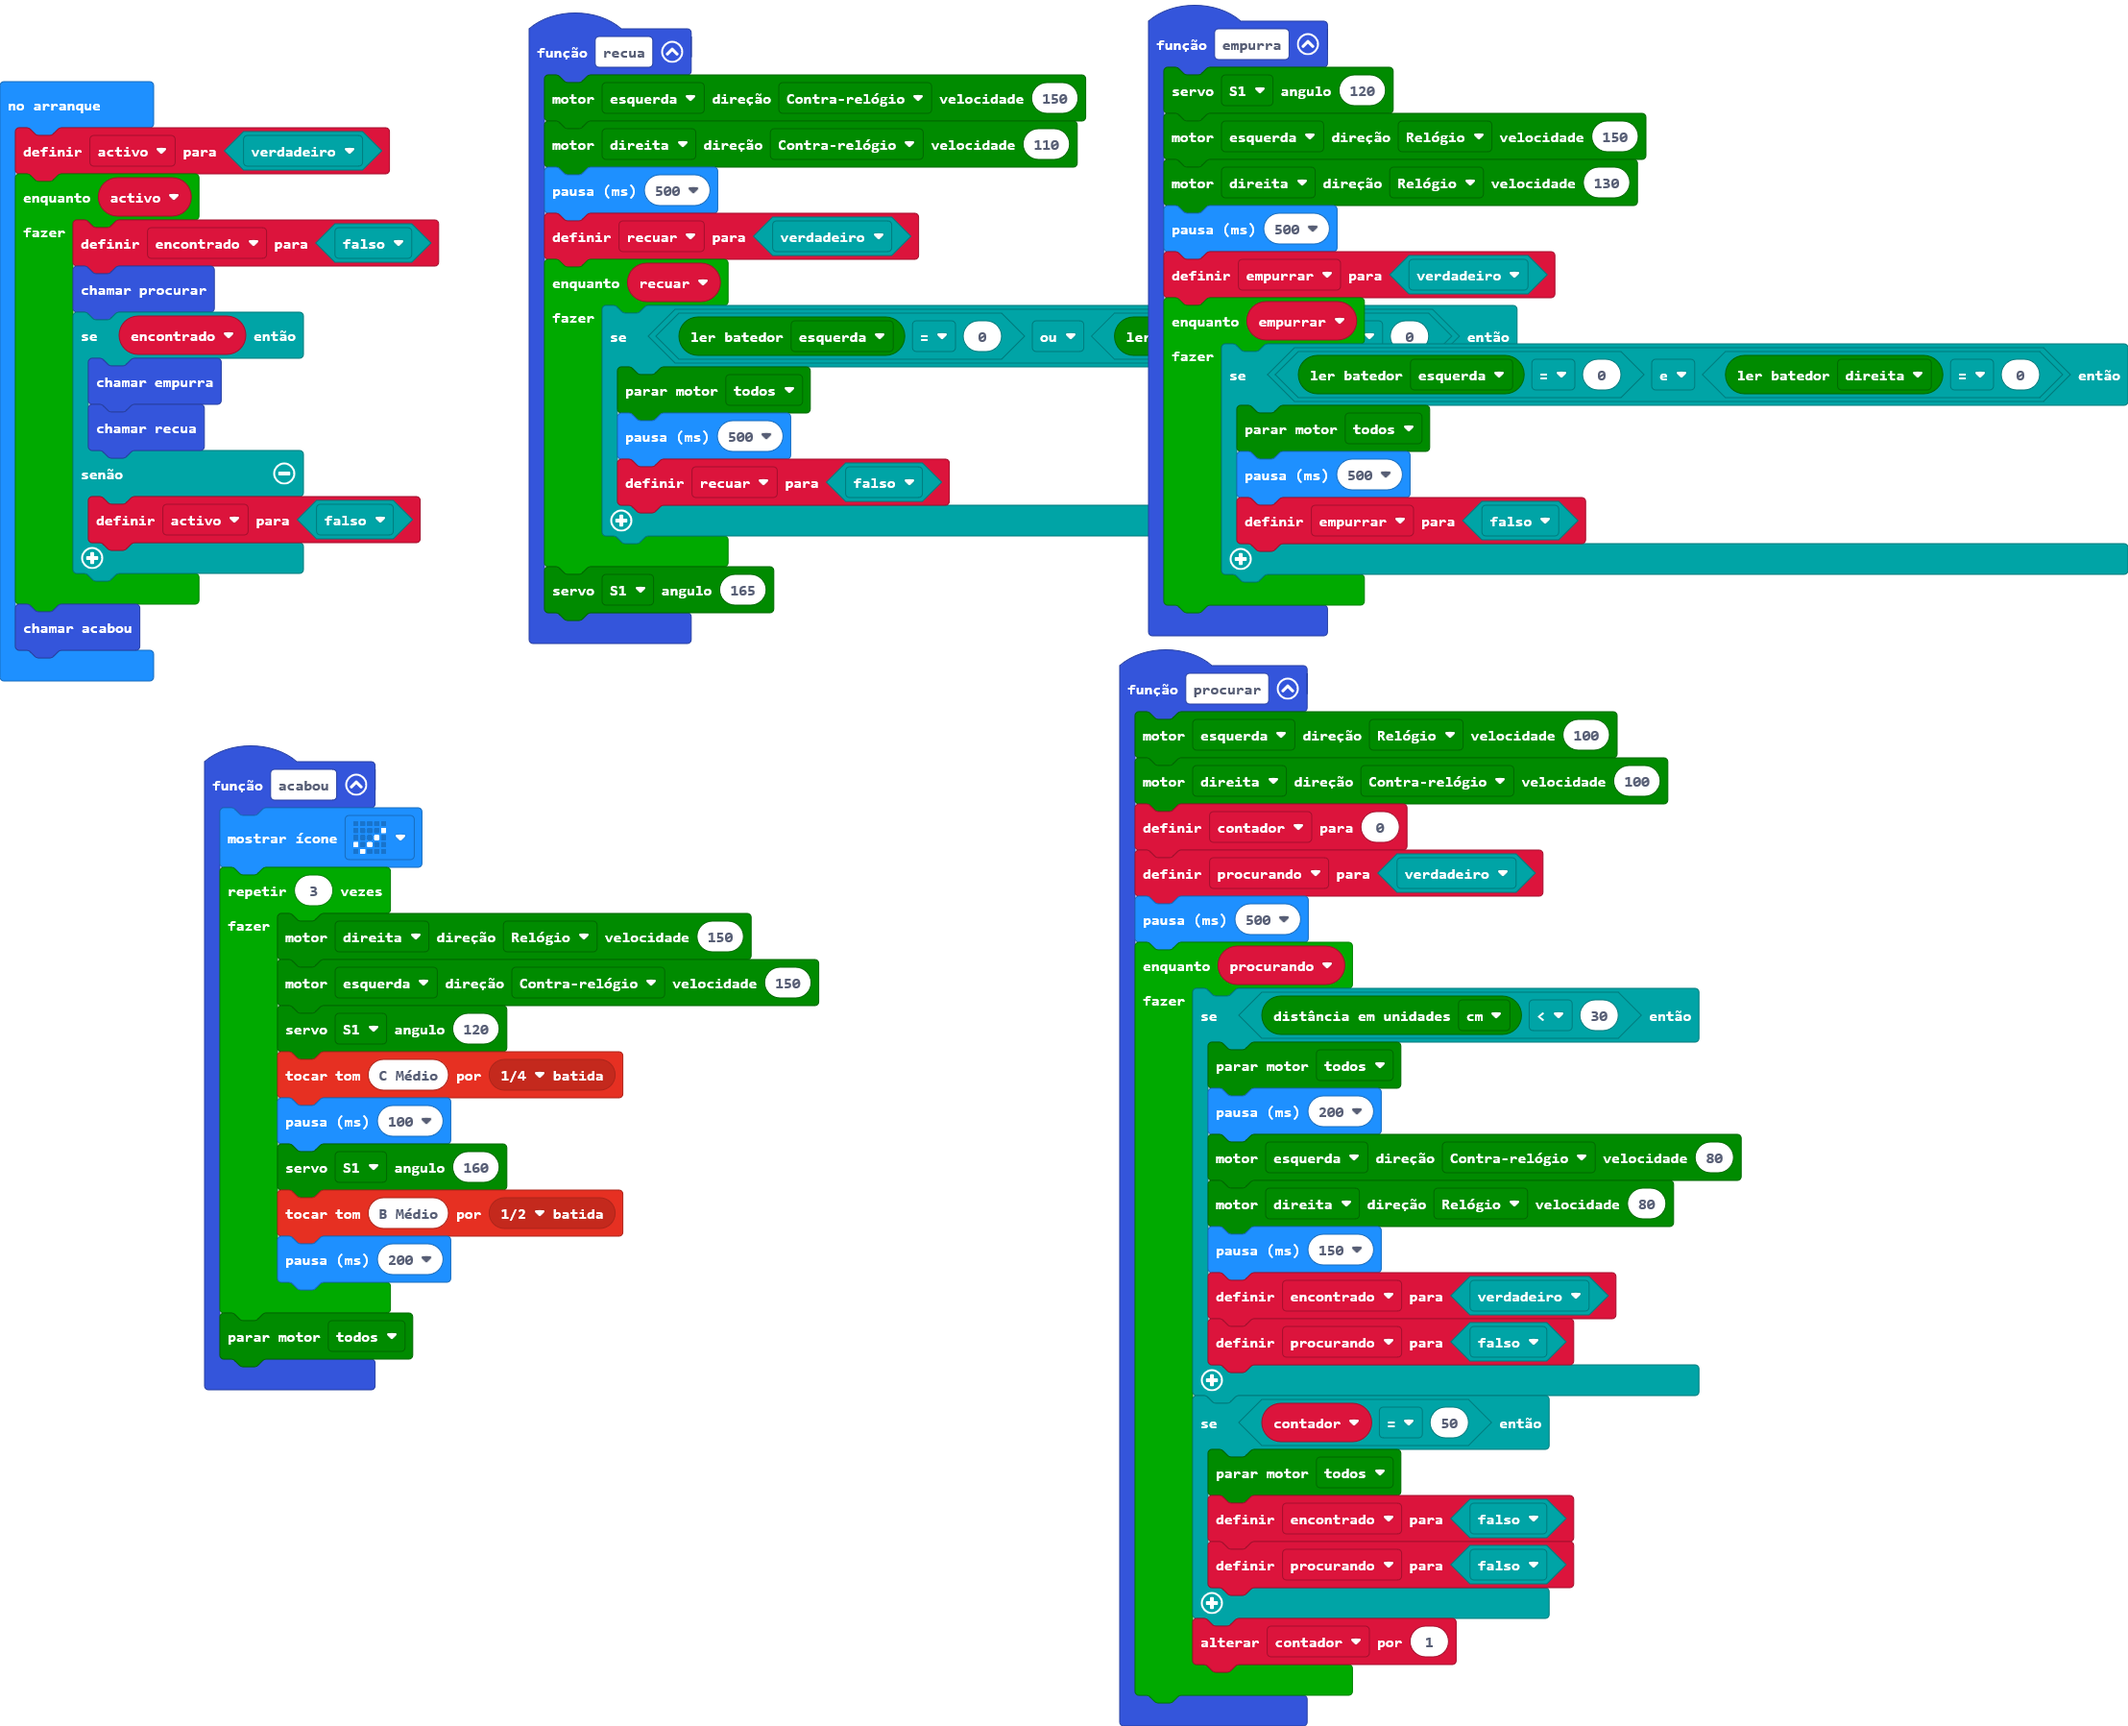
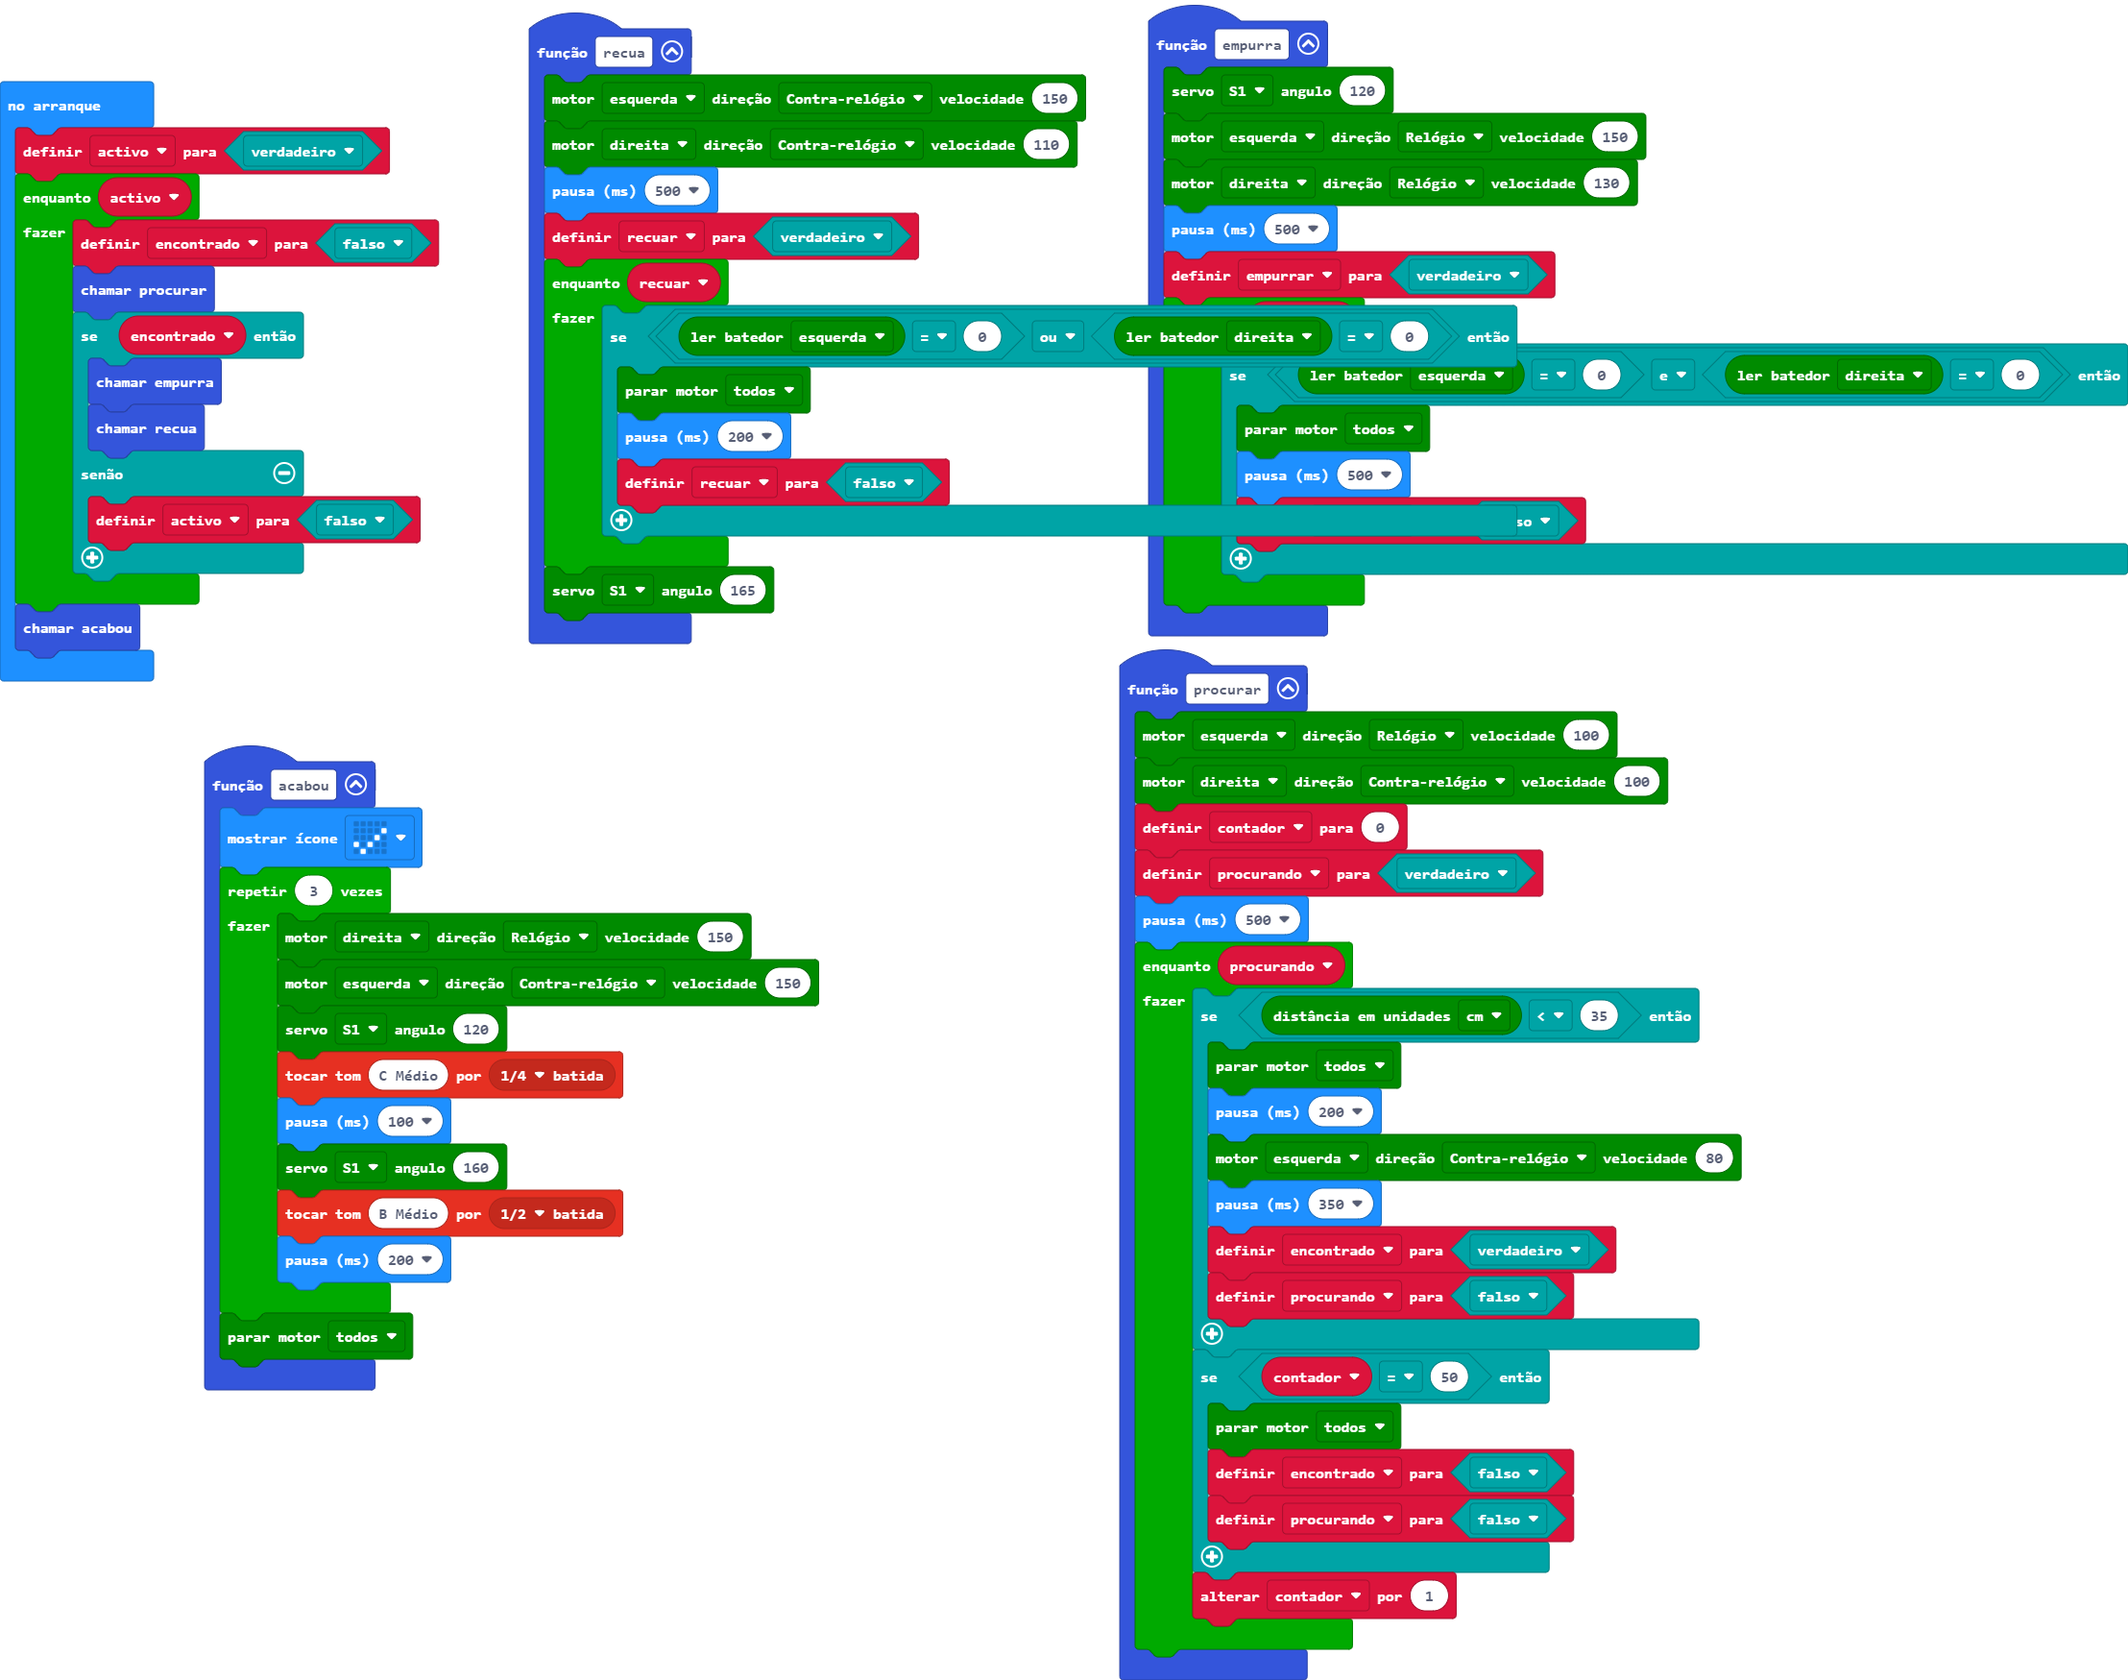
Atualização main.blocks, main.ts

Changed region(s): [[0.2491, 0.0, 1.0, 0.988], [0.0934, 0.4322, 0.4048, 0.8336], [0.0, 0.0309, 0.218, 0.4322]]

diff --git a/main.ts b/main.ts
@@ -34,7 +34,7 @@ function recua () {
     while (recuar) {
         if (maqueen.readPatrol(maqueen.Patrol.PatrolLeft) == 0 || maqueen.readPatrol(maqueen.Patrol.PatrolRight) == 0) {
             maqueen.motorStop(maqueen.Motors.All)
-            basic.pause(500)
+            basic.pause(200)
             recuar = false
         }
     }
@@ -47,12 +47,11 @@ function procurar () {
     procurando = true
     basic.pause(500)
     while (procurando) {
-        if (maqueen.Ultrasonic(PingUnit.Centimeters) < 30) {
+        if (maqueen.Ultrasonic(PingUnit.Centimeters) < 35) {
             maqueen.motorStop(maqueen.Motors.All)
             basic.pause(200)
             maqueen.motorRun(maqueen.Motors.M1, maqueen.Dir.CCW, 80)
-            maqueen.motorRun(maqueen.Motors.M2, maqueen.Dir.CW, 80)
-            basic.pause(150)
+            basic.pause(350)
             encontrado = true
             procurando = false
         }
